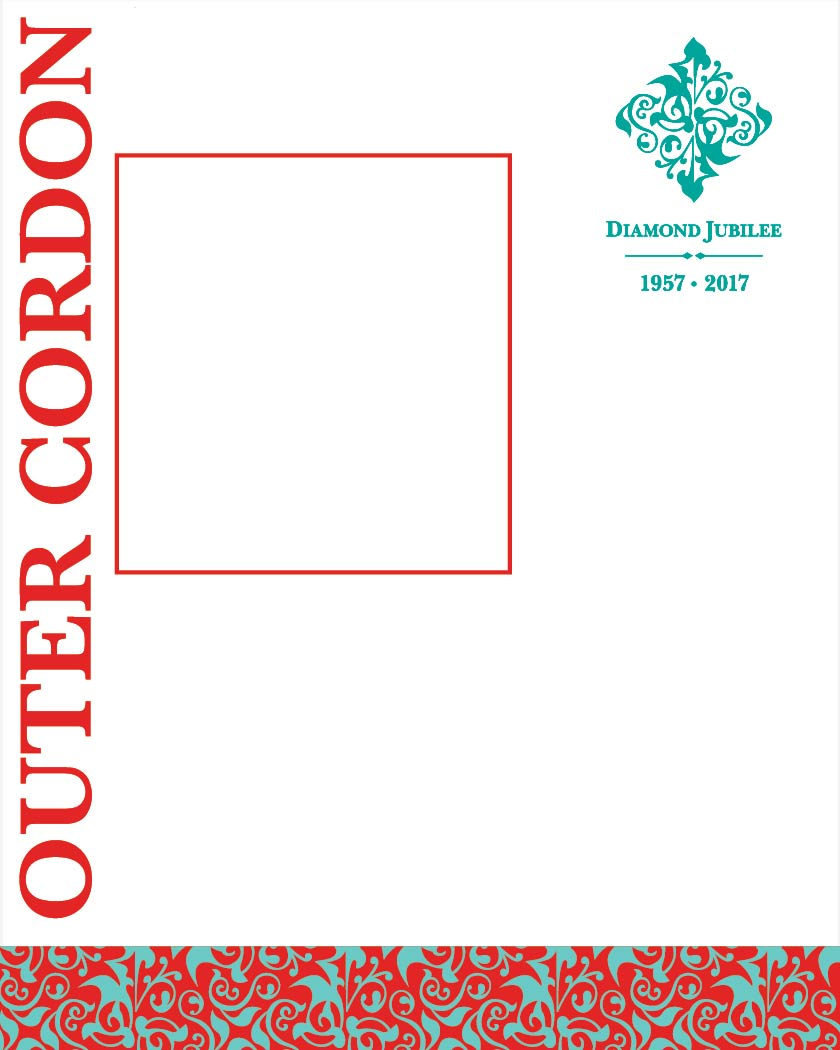
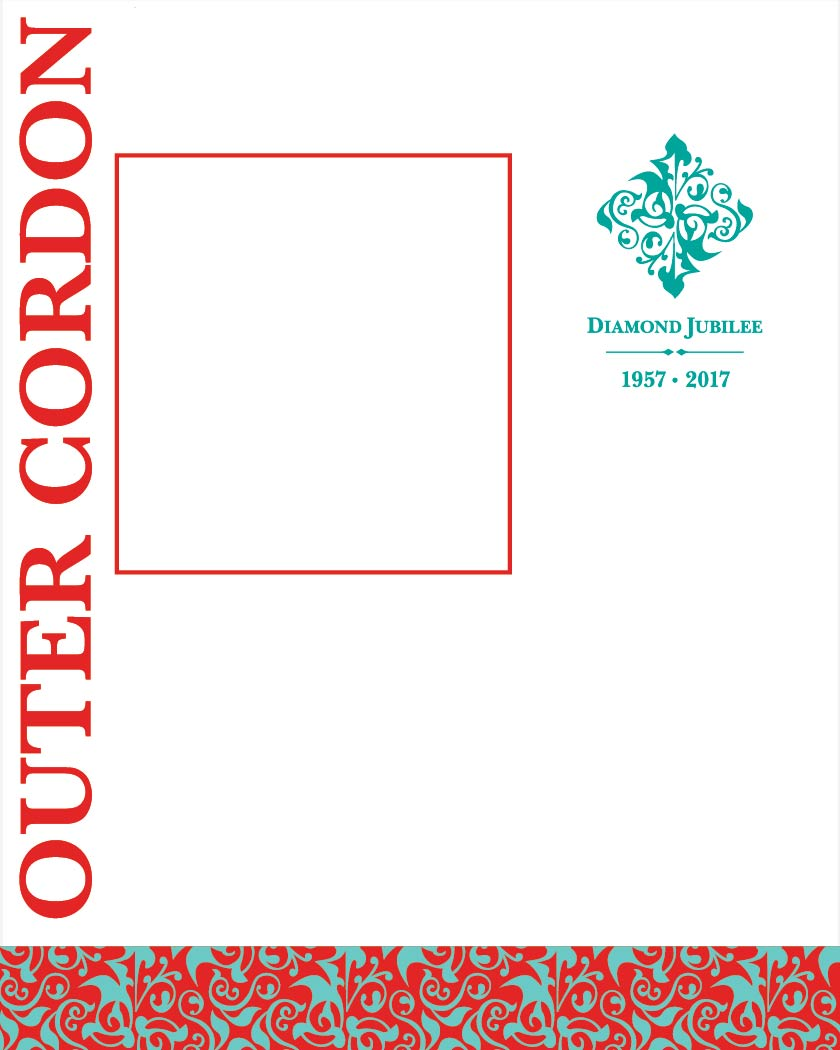
truncation of string added for card and new layout added

Changed region(s): [[0.681, 0.0305, 0.9286, 0.3962]]

diff --git a/src/main/java/com/system/demo/volunteer/printer/CardPrinter.java b/src/main/java/com/system/demo/volunteer/printer/CardPrinter.java
@@ -229,6 +229,14 @@ public class CardPrinter {
         return message;
     }
 
+    public String truncateText(String inputString, int maxLength)
+    {
+        if (inputString.length() > maxLength) {
+            inputString = inputString.substring(0, maxLength);
+        }
+        return inputString;
+    }
+
     public void CreateCard(Document qr_code_Example, String EncryptMsg, PdfWriter writer,
         float cardStartX, float cardStartY, float ratio, Volunteer volunteer) throws Exception {
         String imageUrl = getBackgroundImage(volunteer.getDutyZone()); // "D://inner cordon.jpg";
@@ -267,29 +275,30 @@ public class CardPrinter {
             if(VolName.length > 1)
                 VolSecondName = VolName[1];
         }
-        Phrase myText = new Phrase( VolFirstName , namefont);
+        Phrase myText = new Phrase( truncateText(VolFirstName,10) , namefont);
         ct.setSimpleColumn(myText, cardStartX + 29, cardStartY + 92,
-            cardStartX + (pageWidth / 2), cardStartY + 102, 6, Element.ALIGN_LEFT);
+            cardStartX + (pageWidth / 2), cardStartY + 102, 6,
+            Element.ALIGN_LEFT);
         ct.go();
 
-        myText = new Phrase( VolSecondName , namefont);
+        myText = new Phrase( truncateText(VolSecondName ,12), namefont);
         ct.setSimpleColumn(myText, cardStartX + 29, cardStartY + 78.5f,
             cardStartX + (pageWidth / 2), cardStartY + 88.5f, 6, Element.ALIGN_LEFT);
         ct.go();
 
 
-        myText = new Phrase( (volunteer.getVolunteerCommittee()!=null)?volunteer.getVolunteerCommittee().toUpperCase() : "" , smallfont);
+        myText = new Phrase( (volunteer.getVolunteerCommittee()!=null)? truncateText(volunteer.getVolunteerCommittee().toUpperCase(),12) : "" , smallfont);
         ct.setSimpleColumn(myText, cardStartX + 29, cardStartY + 62,
             cardStartX + (pageWidth / 2), cardStartY + 72, 6, Element.ALIGN_LEFT);
         ct.go();
 
-        myText = new Phrase( (volunteer.getVolunteerCnic()!=null)?volunteer.getVolunteerCnic(): "" , smallfont);
+        myText = new Phrase( (volunteer.getVolunteerCnic()!=null)?truncateText(volunteer.getVolunteerCnic(),16): "" , smallfont);
         ct.setSimpleColumn(myText, cardStartX + 29, cardStartY + 46.5f,
             cardStartX + (pageWidth / 2), cardStartY + 56.5f, 6, Element.ALIGN_LEFT);
         ct.go();
 
         //local council
-        myText = new Phrase( (volunteer.getLocalCouncil()!=null)?volunteer.getLocalCouncil().toUpperCase(): "" , smallfont);
+        myText = new Phrase( (volunteer.getLocalCouncil()!=null)?truncateText(volunteer.getLocalCouncil().toUpperCase(),12): "" , smallfont);
         ct.setSimpleColumn(myText, cardStartX + 29, cardStartY + 33,
             cardStartX + (pageWidth / 2), cardStartY + 43, 6, Element.ALIGN_LEFT);
         ct.go();
@@ -301,7 +310,7 @@ public class CardPrinter {
         ct.go();*/
 
         //Header title
-        myText = new Phrase( (volunteer.getVolunteerSite()!=null)?volunteer.getVolunteerSite().toUpperCase(): "" , titleFont);
+        myText = new Phrase( (volunteer.getVolunteerSite()!=null)?truncateText(volunteer.getVolunteerSite().toUpperCase(),14): "" , titleFont);
         ct.setSimpleColumn(myText, cardStartX + 29, cardStartY + 225, cardStartX + (pageWidth / 2),
             cardStartY + 235, 6, Element.ALIGN_LEFT
         );
